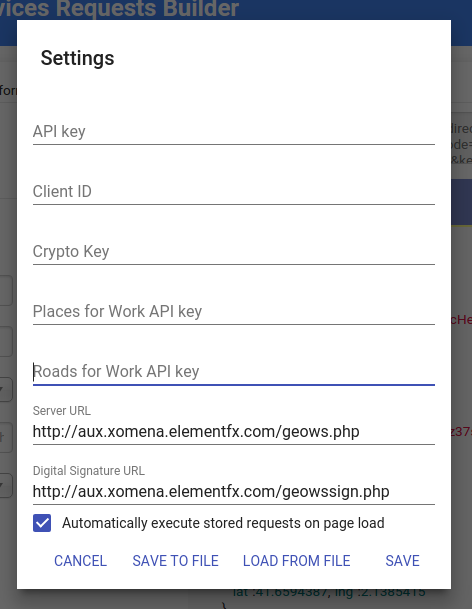
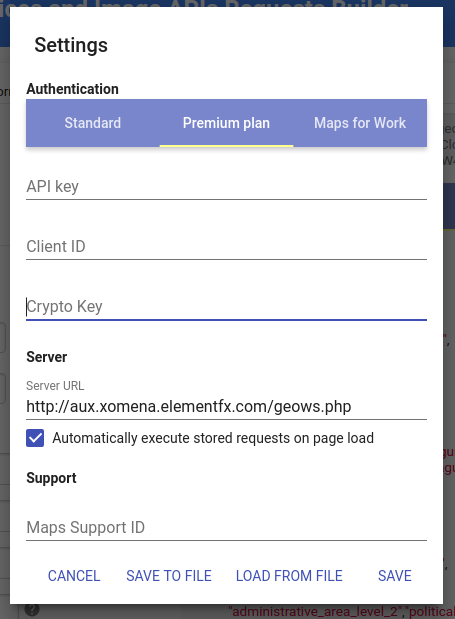
update docs iteration 1

diff --git a/README.md b/README.md
@@ -25,13 +25,22 @@ To start working with Requests Builder please fill in the Settings for your API 
 
 ![Settings Config](/image/docs/geo-ws-settings.png?raw=true "Maps WS Builder Settings")
 
-Please put the following values:
- - In **API key** field you should enter the value of the free version's API key that you generated in your developer console project. Please follow [documentation](https://developers.google.com/maps/documentation/geocoding/get-api-key) for more details. Please note that you have to enable all APIs mentioned above in your project to be able to construct all free version's requests.
- - **Client ID** and **Crypto Key**. If you have a Google Maps for Work license you should enter there the corresponding values of your client ID and cryptographic key. Please read [authenticate and authorize Maps for Work documentation](https://developers.google.com/maps/documentation/business/webservices/auth) for more details.
+Please put the following values for different types of authentication:
+
+#### Standard 
+ - In **API key** field you should enter the value of the free version's Server API key that you generated in your developer console project. Please follow [documentation](https://developers.google.com/maps/documentation/geocoding/get-api-key) for more details. Please note that you have to enable all APIs mentioned above in your project to be able to construct all free version's requests.
+ 
+ #### Premium Plan
+ - In **API key** field you should enter the value of the Premium plan's Server API key that you generated in your developer console project. Please follow [documentation](https://developers.google.com/maps/premium/overview#api-key) for more details.
+ - **Client ID** and **Crypto Key**. If you have a Premium Plan license you should enter there the corresponding values of your client ID and cryptographic key. Please read [authenticate and authorize documentation](https://developers.google.com/maps/documentation/geocoding/get-api-key#client-id) for more details.
+ 
+ #### Maps for Work (previous license)
+ - **Client ID** and **Crypto Key**. If you have a Google Maps for Work license you should enter there the corresponding values of your client ID and cryptographic key. Please read [authenticate and authorize Maps for Work documentation](https://developers.google.com/maps/premium/previous-licenses/webservices/auth) for more details.
  - **Places for Work API key**. If you have a Places API for Work license please enter here the value of the API key from your locked Places API - Zagat Content project.
  - **Roads for Work API key**. If you have a Maps for Work license and enabled the Roads API, please enter here the value of the API key from your locked Roads API project.
+ 
+ #### Other parameters
  - **Server URL**. Please enter the `http://aux.xomena.elementfx.com/geows.php`
- - **Digital Signature URL**. Please enter the `http://aux.xomena.elementfx.com/geowssign.php`
  - If you would like to execute all stored requests on page load, please mark the corresponding checkbox.
  
  ### Select version and format
